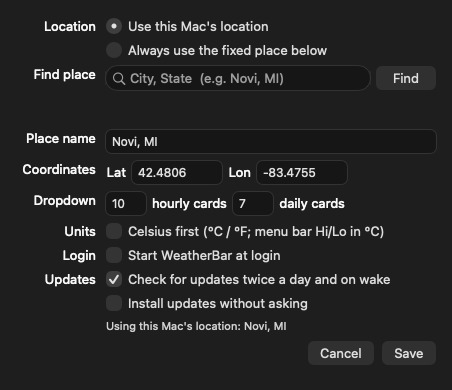
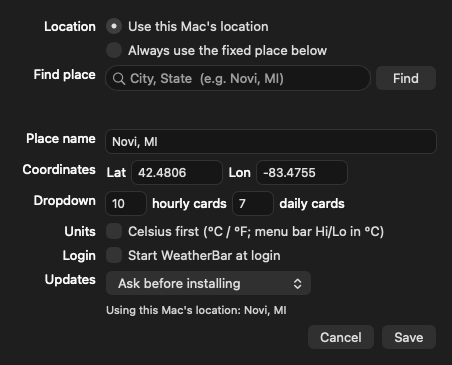
1.9: one Updates menu in Settings instead of two checkboxes
Choose Ask before installing (the default), Install automatically, or Don't check automatically. Settings from the two old checkboxes carry over until the new menu is saved.

diff --git a/main.swift b/main.swift
@@ -32,8 +32,7 @@
 // and on wake from sleep when the last check is over an hour old (so a morning wake finds a night release);
 // offers to install a newer release, verifies it (SHA-256, bundle id, version, signature), swaps it in
 // place and relaunches.
-//   defaults write com.mayhoo.weatherbar autoCheckUpdates   -bool false  # no automatic checks
-//   defaults write com.mayhoo.weatherbar autoInstallUpdates -bool true   # install without asking
+//   defaults write com.mayhoo.weatherbar updateMode -string ask          # ask (default) | auto | off
 //   defaults write com.mayhoo.weatherbar updateFeedURL -string URL       # testing: alternate release JSON
 //   defaults write com.mayhoo.weatherbar skipMovePrompt -bool true       # never offer to move to /Applications
 //             WeatherBar --geocode "Novi, MI"
@@ -55,8 +54,14 @@ enum Config {
     static var lon: Double  { (d.object(forKey: "longitude") as? Double) ?? defaultLon }
     static var place: String { d.string(forKey: "place") ?? defaultPlace }
     static var celsiusFirst: Bool { d.bool(forKey: "celsiusFirst") }
-    static var autoCheckUpdates: Bool { d.object(forKey: "autoCheckUpdates") == nil ? true : d.bool(forKey: "autoCheckUpdates") }
-    static var autoInstallUpdates: Bool { d.bool(forKey: "autoInstallUpdates") }
+    /// "auto": install new versions without asking. "ask": prompt (default). "off": no automatic checks;
+    /// Check for Updates… in the menu still works. Before 1.9 this was two checkboxes, autoCheckUpdates and
+    /// autoInstallUpdates; their values are honoured until updateMode is saved once.
+    static var updateMode: UpdateMode {
+        if let m = d.string(forKey: "updateMode").flatMap(UpdateMode.init(rawValue:)) { return m }
+        if d.object(forKey: "autoCheckUpdates") != nil && !d.bool(forKey: "autoCheckUpdates") { return .off }
+        return d.bool(forKey: "autoInstallUpdates") ? .auto : .ask
+    }
     static var skippedVersion: String? { d.string(forKey: "skippedVersion") }
     static var updateCheckHours: Double { let h = d.double(forKey: "updateCheckHours"); return h > 0 ? h : 12 }
     static var lastUpdateCheck: Date? {
@@ -482,6 +487,17 @@ func populate(_ menu: NSMenu, place: Place, note: String?, weather last: Weather
 
 // MARK: - Self-update from GitHub Releases
 
+enum UpdateMode: String, CaseIterable {
+    case auto, ask, off
+    var title: String {
+        switch self {
+        case .auto: return "Install automatically"
+        case .ask: return "Ask before installing"
+        case .off: return "Don't check automatically"
+        }
+    }
+}
+
 struct Release {
     let version: String          // "1.5" (tag "v1.5" without the v)
     let zipURL: URL
@@ -673,13 +689,12 @@ final class SettingsWindow: NSWindowController {
     let hoursField = NSTextField(), daysField = NSTextField()
     let loginBox = NSButton(checkboxWithTitle: "Start WeatherBar at login", target: nil, action: nil)
     let celsiusBox = NSButton(checkboxWithTitle: "Celsius first (°C / °F; menu bar Hi/Lo in °C)", target: nil, action: nil)
-    let checkUpdatesBox = NSButton(checkboxWithTitle: "Check for updates twice a day and on wake", target: nil, action: nil)
-    let autoInstallBox = NSButton(checkboxWithTitle: "Install updates without asking", target: nil, action: nil)
+    let updateModePopup = NSPopUpButton()
     let status = NSTextField(labelWithString: "")
     var found: [GeoResult] = []
 
     init() {
-        let win = NSWindow(contentRect: NSRect(x: 0, y: 0, width: 460, height: 390), styleMask: [.titled, .closable], backing: .buffered, defer: false)
+        let win = NSWindow(contentRect: NSRect(x: 0, y: 0, width: 460, height: 365), styleMask: [.titled, .closable], backing: .buffered, defer: false)
         win.title = "WeatherBar Settings"
         win.isReleasedWhenClosed = false
         super.init(window: win)
@@ -716,8 +731,7 @@ final class SettingsWindow: NSWindowController {
             [lbl("Dropdown"), countRow],
             [lbl("Units"), celsiusBox],
             [lbl("Login"), loginBox],
-            [lbl("Updates"), checkUpdatesBox],
-            [NSView(), autoInstallBox],
+            [lbl("Updates"), updateModePopup],
             [NSView(), status],
             [NSView(), btnRow],
         ])
@@ -749,8 +763,10 @@ final class SettingsWindow: NSWindowController {
         hoursField.stringValue = "\(Config.hours)"; daysField.stringValue = "\(Config.days)"
         loginBox.state = SMAppService.mainApp.status == .enabled ? .on : .off
         celsiusBox.state = Config.celsiusFirst ? .on : .off
-        checkUpdatesBox.state = Config.autoCheckUpdates ? .on : .off
-        autoInstallBox.state = Config.autoInstallUpdates ? .on : .off
+        updateModePopup.removeAllItems()
+        updateModePopup.addItems(withTitles: UpdateMode.allCases.map(\.title))
+        updateModePopup.selectItem(at: UpdateMode.allCases.firstIndex(of: Config.updateMode) ?? 1)
+        updateModePopup.toolTip = "Checks happen at launch, every 12 hours, and when the Mac wakes."
         status.stringValue = text
         results.isHidden = true
     }
@@ -801,8 +817,9 @@ final class SettingsWindow: NSWindowController {
         if let h = Int(hoursField.stringValue), h > 0, h <= 48 { d.set(h, forKey: "hours") }
         if let n = Int(daysField.stringValue), n > 0, n <= 14 { d.set(n, forKey: "days") }
         d.set(celsiusBox.state == .on, forKey: "celsiusFirst")
-        d.set(checkUpdatesBox.state == .on, forKey: "autoCheckUpdates")
-        d.set(autoInstallBox.state == .on, forKey: "autoInstallUpdates")
+        let mode = UpdateMode.allCases[max(0, updateModePopup.indexOfSelectedItem)]
+        d.set(mode.rawValue, forKey: "updateMode")
+        d.removeObject(forKey: "autoCheckUpdates"); d.removeObject(forKey: "autoInstallUpdates")   // superseded
         window?.close()
         onSave?()
     }
@@ -1042,7 +1059,7 @@ final class AppDelegate: NSObject, NSApplicationDelegate, NSMenuDelegate {
     @objc func checkForUpdatesManually() { checkForUpdates(userInitiated: true) }
 
     func checkForUpdates(userInitiated: Bool) {
-        guard userInitiated || Config.autoCheckUpdates, !installing else { return }
+        guard userInitiated || Config.updateMode != .off, !installing else { return }
         Config.lastUpdateCheck = Date()
         fetchLatestRelease { [weak self] r in DispatchQueue.main.async {
             guard let self = self else { return }
@@ -1052,7 +1069,7 @@ final class AppDelegate: NSObject, NSApplicationDelegate, NSMenuDelegate {
                 if userInitiated { self.offerUpdate(rel); return }
                 if Config.skippedVersion == rel.version { return }
                 if let until = self.laterUntil[rel.version], Date() < until { return }   // "Later" was clicked recently
-                if Config.autoInstallUpdates { self.install(rel) } else { self.offerUpdate(rel) }
+                if Config.updateMode == .auto { self.install(rel) } else { self.offerUpdate(rel) }
             case .success:
                 self.availableUpdate = nil
                 if userInitiated { self.inform("WeatherBar is up to date", "Version \(appVersion) is the latest release.") }

diff --git a/README.md b/README.md
@@ -57,8 +57,9 @@ login** in Settings.
 
 WeatherBar asks `api.github.com/repos/duanemay/weatherbar/releases/latest` for the newest release at
 launch, every 12 hours, and on wake from sleep when the last check is over an hour old. When it finds a newer version it shows the release notes with **Install
-and Relaunch**, **Later** and **Skip This Version**. Turn on **Install updates without asking** in
-Settings to skip the prompt.
+and Relaunch**, **Later** and **Skip This Version**. Settings has one **Updates** menu: **Ask before installing** (the default),
+**Install automatically**, or **Don't check automatically**. Check for Updates… in the menu works with
+any of them.
 
 Before anything is replaced, the download must pass four checks, and a failure leaves the installed
 app untouched:
@@ -99,9 +100,8 @@ defaults write com.mayhoo.weatherbar refreshMinutes -int 10
 defaults write com.mayhoo.weatherbar fontSize     -float 9       # menu bar text size
 defaults write com.mayhoo.weatherbar bigTemp      -bool true     # add a large temp before the columns
 defaults write com.mayhoo.weatherbar skipMovePrompt -bool true   # never offer to move to /Applications
-defaults write com.mayhoo.weatherbar autoCheckUpdates -bool false   # no automatic update checks
+defaults write com.mayhoo.weatherbar updateMode -string ask         # ask (default), auto, or off
 defaults write com.mayhoo.weatherbar updateCheckHours -float 12     # hours between scheduled checks
-defaults write com.mayhoo.weatherbar autoInstallUpdates -bool true  # install updates without asking
 ```
 
 ## Development
